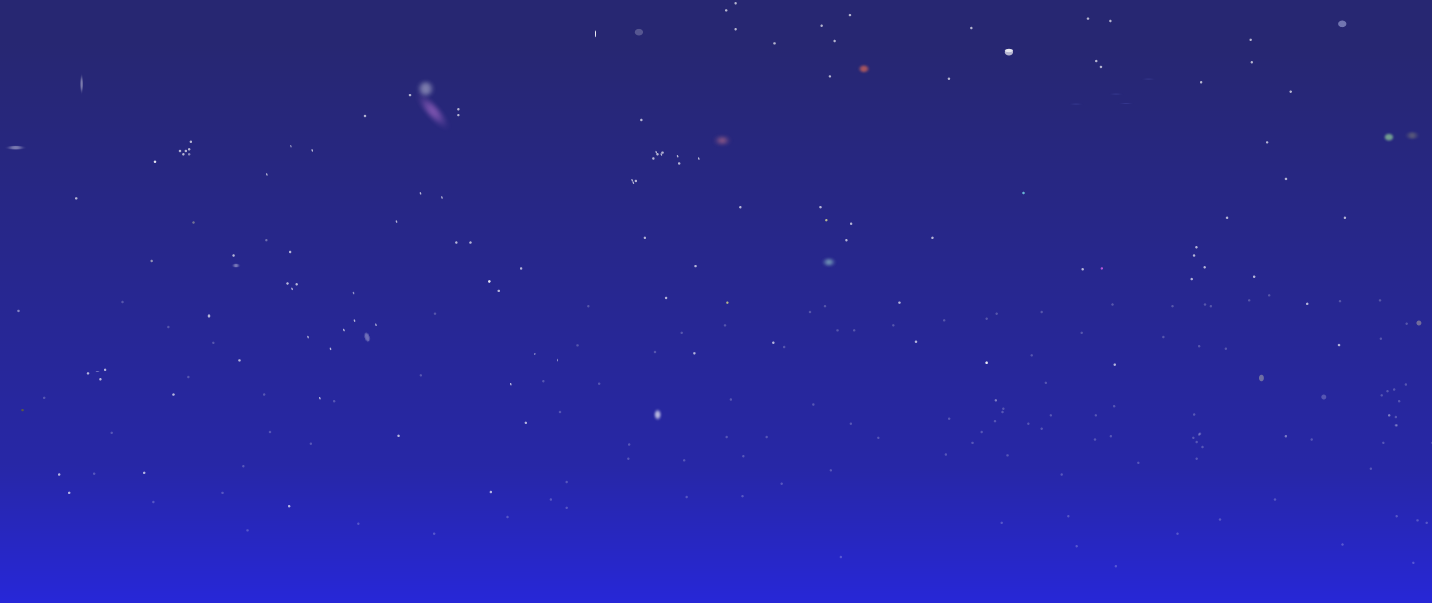
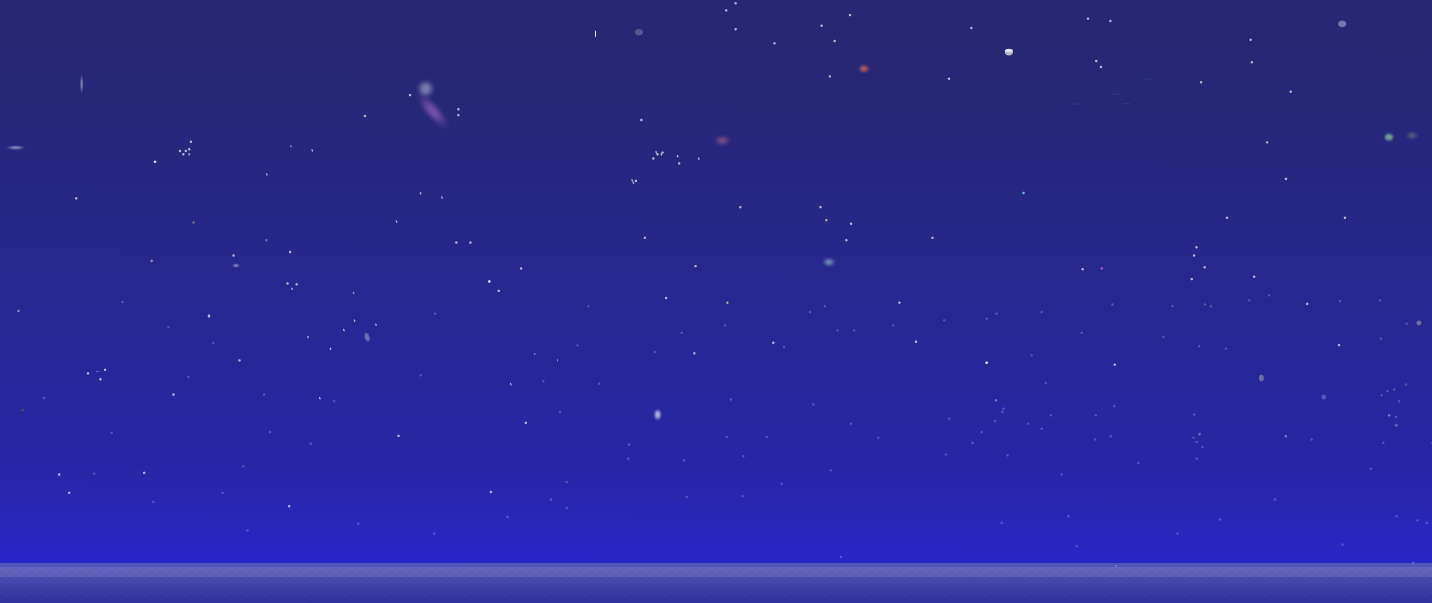
Moved HR meter and superzone HRs to HUD area beneath players.

Changed region(s): [[0.0, 0.9254, 1.0, 1.0]]

diff --git a/RAGE-Control/app/RAGE/Player.py b/RAGE-Control/app/RAGE/Player.py
@@ -29,7 +29,7 @@ class Player (Sprite):
 	
 	def __init__ (self, containers, screen, hxm=None, threshold=70, playerList=None, playerNum = 0, sound_on=True):
 		Sprite.__init__(self, containers, screen, imageFile='goodguy2.png', size=(sizeX,sizeY), wobble=0.)
-		self._x = numpy.array([0., float(self._bounds[1])-10])
+		self._x = numpy.array([0., float(self._bounds[1])-60])
 		self._v = numpy.array([0.,0.])
 		self._bulletOffset = numpy.array([float(sizeX)/2., 0.])
 		self.playerNum = playerNum
@@ -89,11 +89,11 @@ class Player (Sprite):
 		self.drawColor()
 
 	def drawHr (self, index):
-		hrTextLabelPos = numpy.array([60.,5.])
+		hrTextLabelPos = numpy.array([60.,560.])
 		if index == 0:
-			hrTextPos = numpy.array([180.,25.])
+			hrTextPos = numpy.array([200.,570.])
 		else:
-			hrTextPos = numpy.array([280.,25.])
+			hrTextPos = numpy.array([670.,570.])
 		self.hrText = self.fontLarge.render(("%.0f"%round(self.hxm.HR,0)),True,white)
 		self._screen.blit(self.hrTextLabel, (hrTextPos[0], hrTextLabelPos[1]))
 		self._screen.blit(self.hrText, (hrTextPos[0], hrTextPos[1]))
@@ -160,6 +160,6 @@ class Player (Sprite):
 			self.color = yellow
 		self.colorSurface.fill(self.color)
 		if (hrTextPosX is not None):
-			self._screen.blit(self.colorSurface, (hrTextPosX, 55.))
+			self._screen.blit(self.colorSurface, (hrTextPosX, 590.))
 		else:
 			self._screen.blit(self.colorSurface, (self._x[0], self._x[1]+sizeY))

diff --git a/RAGE-Control/app/RAGE/HUD.py b/RAGE-Control/app/RAGE/HUD.py
@@ -13,7 +13,6 @@ else:
 	_mainDir = os.path.split(os.path.abspath(__file__))[0]
 _defaultFont = os.path.join(_mainDir, 'fonts', 'questrial.ttf')
 _headerFont = os.path.join(_mainDir, 'fonts', 'fugaz.ttf')
-
 class HUD:
 
 	def __init__ (self, containers, screen):
@@ -44,8 +43,8 @@ class HUD:
 		self._hrText = self._details.render(self.hr,True,self._headerTextColor)
 		self._flashText = self._flashDetails.render(self.flash,True,self._goodTextColor)
 		self.clock = Clock( screen)
-		self.heartMeterOne = HeartMeter(containers, screen, 'P1', numpy.array([200., 5.]))
-		self.heartMeterTwo = HeartMeter(containers, screen, 'P2', numpy.array([400., 5.]))
+		self.heartMeterOne = HeartMeter(containers, screen, 'P1', numpy.array([5., 555.]))
+		self.heartMeterTwo = HeartMeter(containers, screen, 'P2', numpy.array([710., 555.]))
 
 	def updateHeartMeter(self, player):
 		if player.playerNum == 1:

diff --git a/RAGE-Control/app/game0.py b/RAGE-Control/app/game0.py
@@ -7,8 +7,8 @@ from numpy import array
 
 
 WIDTH =  900 #1080 # 720  # 1024 screen size effects gameplay dramatically-- too big = too easy; not enough enemy density
-HEIGHT =  550 #607 # 405 # 800
-SCREENRECT     = Rect(0, 0, WIDTH, HEIGHT)
+HEIGHT =  600 #607 # 405 # 800
+SCREENRECT     = Rect(0, 0, WIDTH, 550)
 
 GAME_LENGTH = 180 # seconds
 USE_DIFFICULTY = 1 # set to 0 to not reverse directions at 1 min remain
